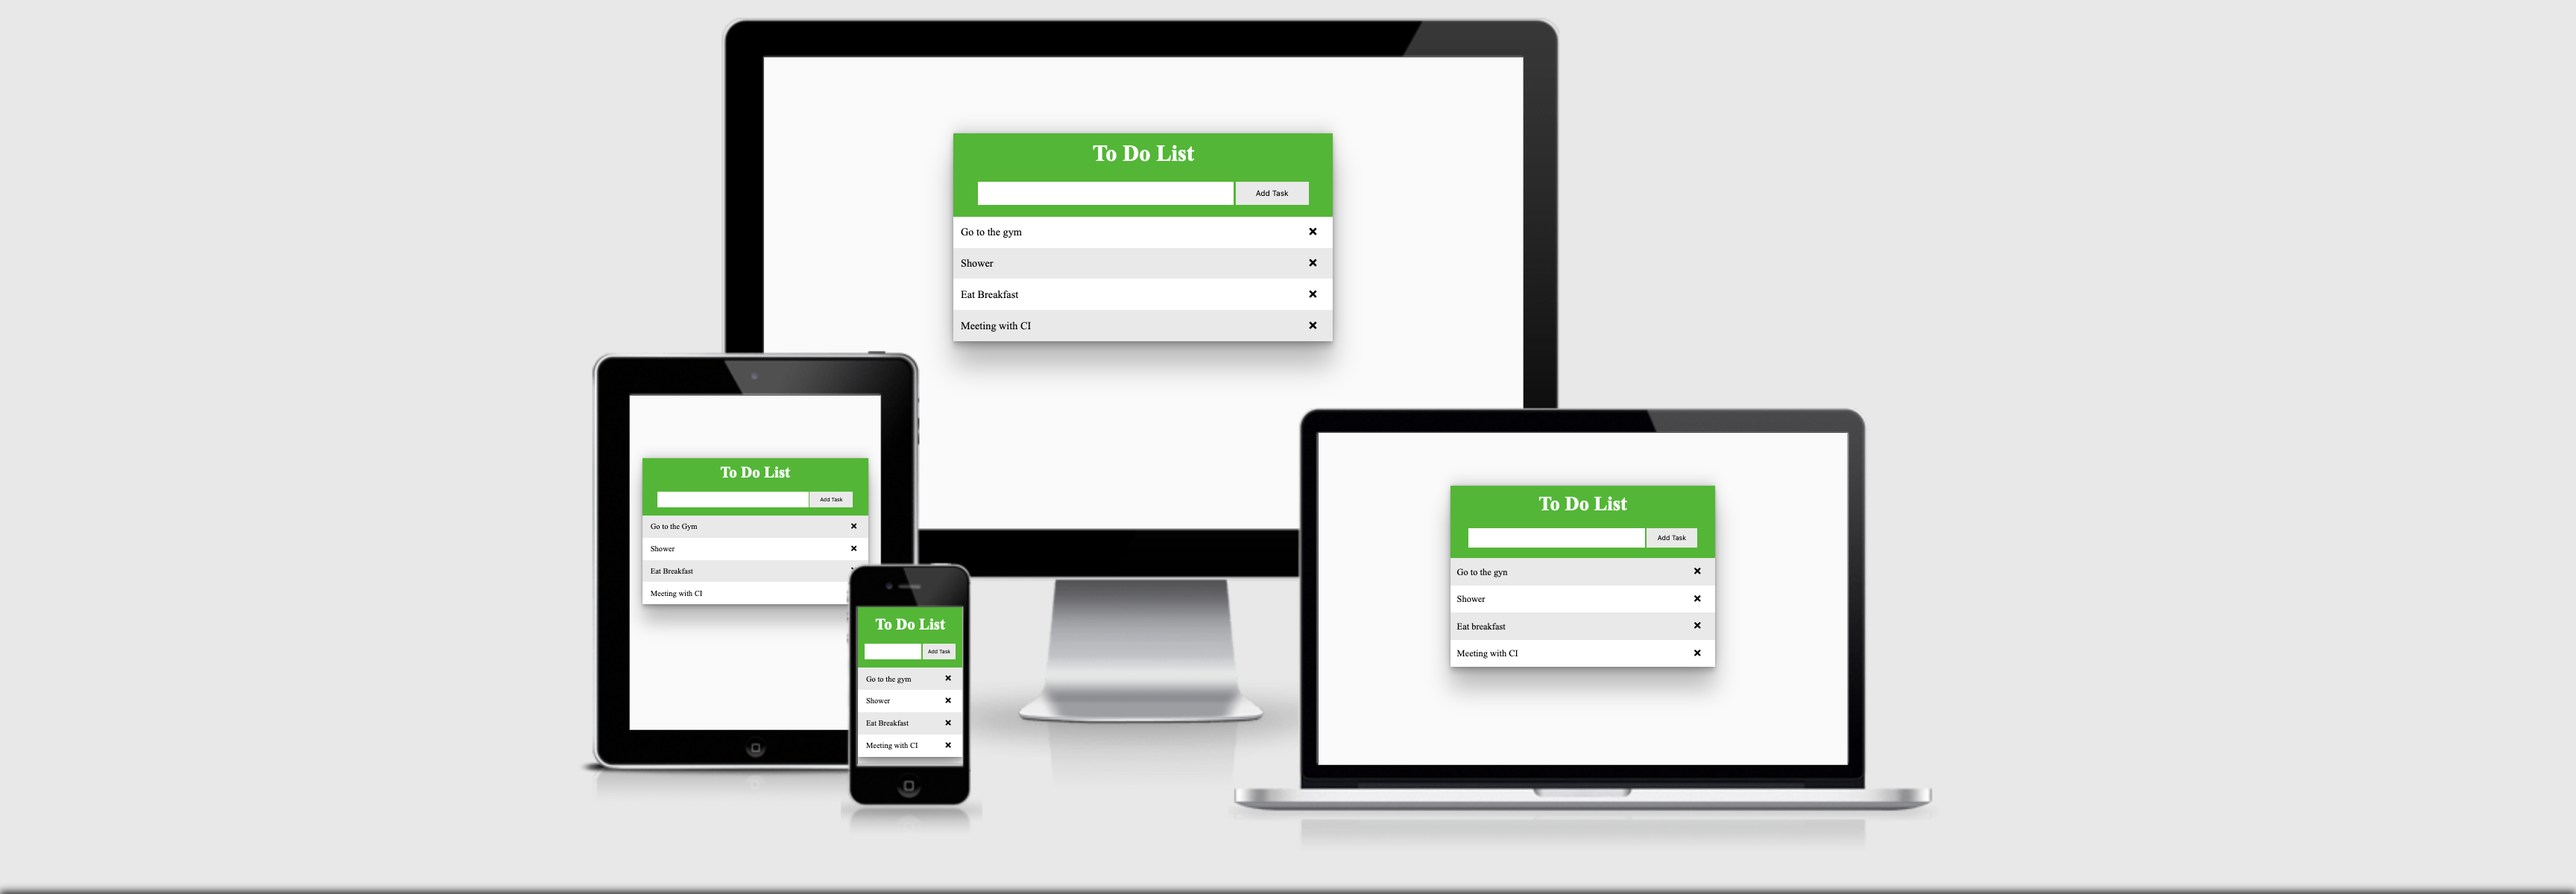
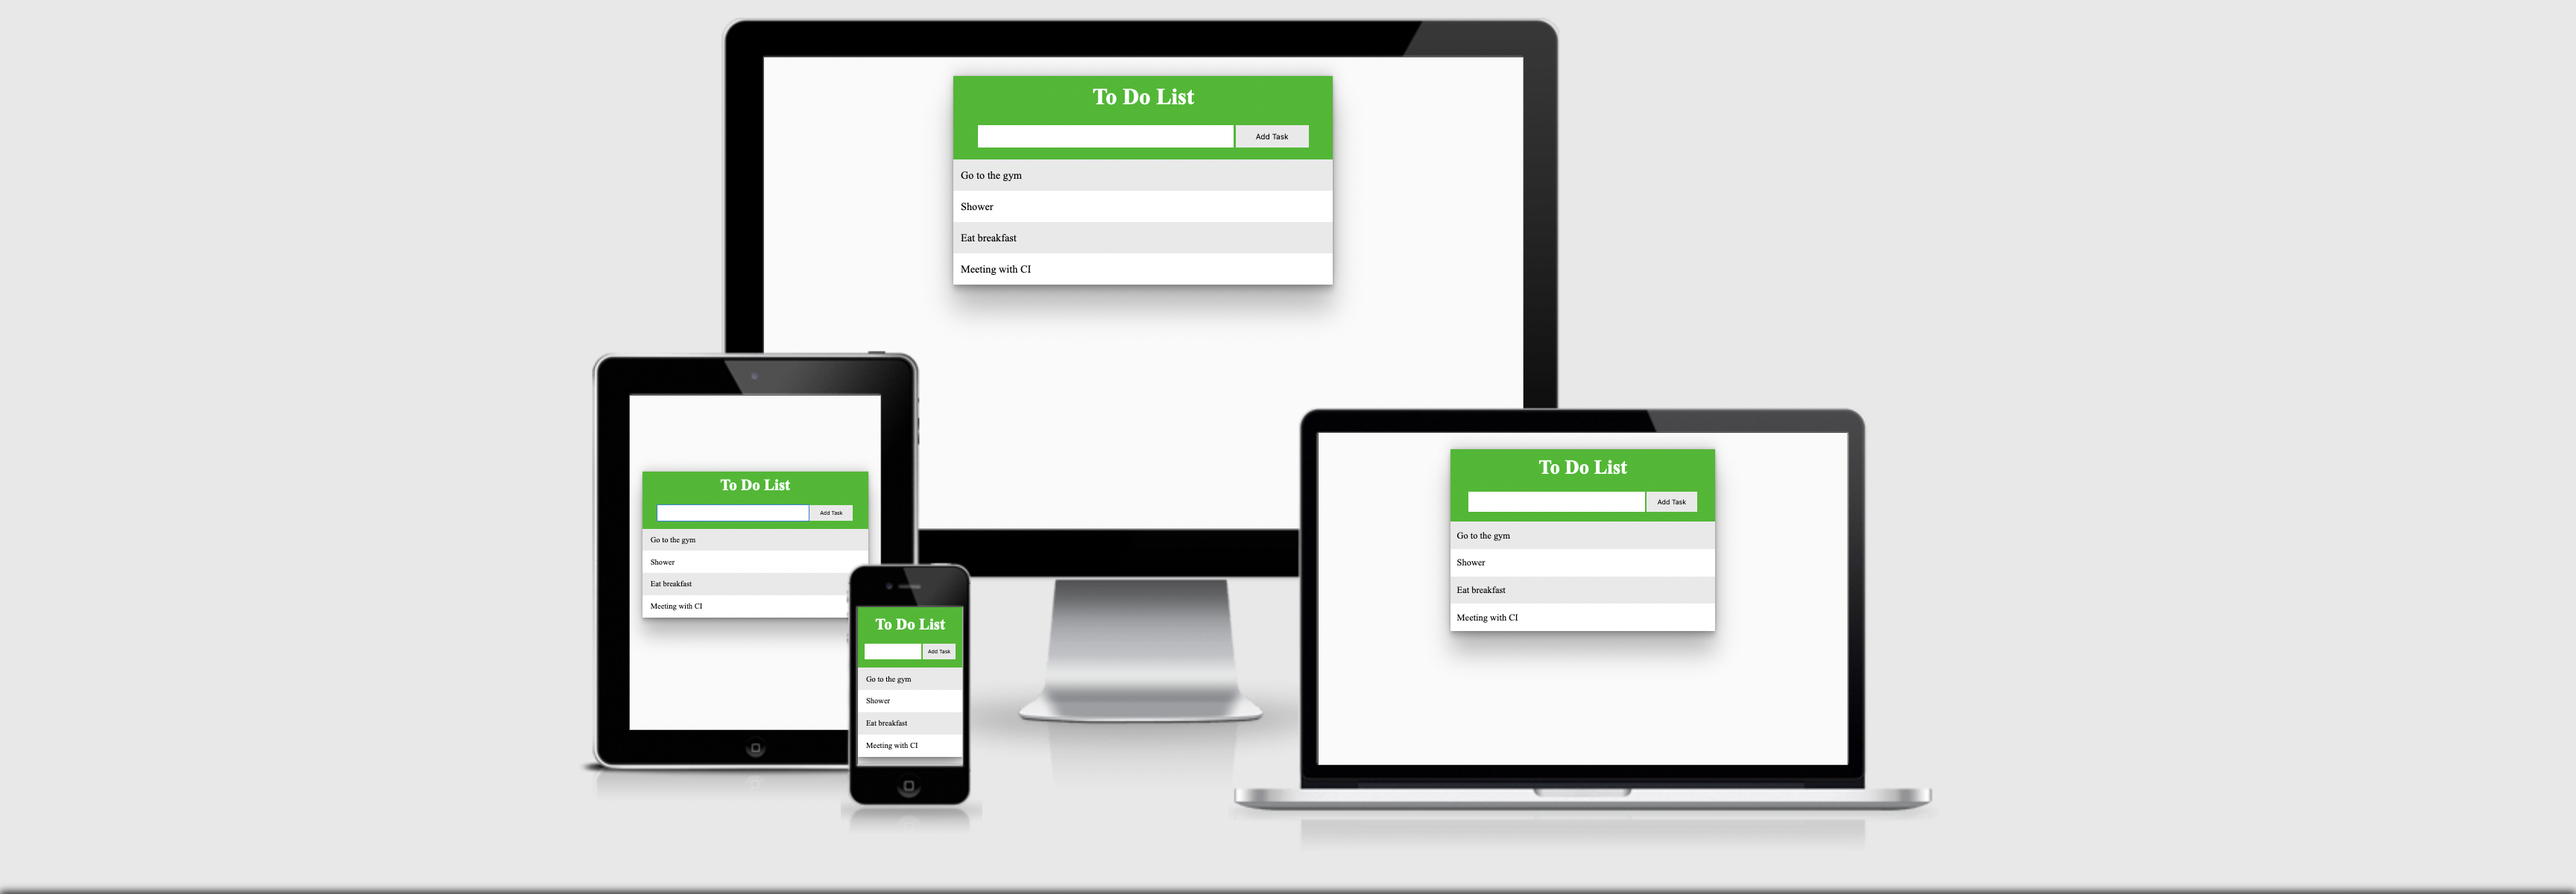
Update readme

diff --git a/README.md b/README.md
@@ -10,7 +10,7 @@ The site will help users to set up daily tasks/goals and keep track of whats bee
 
 -  __The Add Task Feature__
 
-    - Featured on the top of the page, this feature allows users to input their own tasks that need to get done and then add it to a list by pressing the "Add" button.
+    - Featured on the top of the page, this feature allows users to input their own tasks that need to get done and then add it to a list by either pressing the "Add" button or the enter key.
 
     ![Add Task](assets/images/addtask.png)
 
@@ -21,11 +21,16 @@ The site will help users to set up daily tasks/goals and keep track of whats bee
 
     ![Check Task](assets/images/checktask.png)
 
+- __Local Storage__
+
+    - This feature allows for users tasks to be saved when the browser is refreshed. When a users uses the check feature to tick of a task the task will be deleted from the local storage and not show up when refreshing the site. This feature really ties everything together and makes it easy to add, check and remove tasks.
+
 ## Feature I Would Like To Implement In The Future
 
 - __The Remove Task Feature__
     
-    - To the right of all tasks is a times symbol that allows users to click on it to remove the task incase they dont want to just check it of.
+    - This feature would allow users to click on a times symbol to the right of each task to remove it, incase they dont want to just check it of.
+    
 
     ![Remove Task](assets/images/removetask.png)
 
@@ -48,7 +53,38 @@ I've checked so the site works on diffrent browsers like Google Chrome, Firefox 
 - JavaScript
     - When passing the JavaScript code through the official site [Jshint validator](https://jshint.com/) i found one warning witch was the following : Functions declared within loops referencing an outer scoped variable may lead to confusing semantics. (closeTask, i). I fixed this by
       - The following metrics were returned: 
-      - There are 6 functions in this file.
+      - There are 7 functions in this file.
       - Function with the largest signature take 1 arguments, while the median is 0.
-      - Largest function has 9 statements in it, while the median is 3.5.
+      - Largest function has 12 statements in it, while the median is 4.
       - The most complex function has a cyclomatic complexity value of 4 while the median is 2.
+
+
+
+# Bugs
+
+### When working on this project i ran into a few bugs but nothing that was too hard to fix.
+
+- When creating the function to toggle the class “checked” for tasks that have been completed I couldn’t get it to work when using event.target.tagName(‘li’). After some research I found out that the older versions of HTML back when JavaScript was created used all caps for tag names. With this new information I could easily go back to my code and change the ‘li’ to ‘LI’ witch made it work.
+
+- When not typing anything in the input-field and trying to add the task anyways the array witch kept all user inputs still got updated with an empty string. I fixed this by moving the .push() method so it only ran if the input field wasn't empty.
+
+
+# Deployment 
+
+This site was deployed to GitHub pages. To deploy the page I followed the steps bellow:
+
+1. Visit your repositories page on Github and select the one you want to deploy
+2. Navigate to the “settings” menu and click on “Pages”
+3.  Under the “source” menu you can click on the dropdown menu that has the text “None” in it. 
+4. Select the main branch and click “Save”
+5. Once the branch has been selected, the page will be automatically refreshed with a ribbon to display if it was a successful deployment.
+
+The live link can be found here - https://filipwirsen.github.io/To-Do-List/
+
+
+# Credits
+
+- For the color scheme i took alot of help from this article that helped me learn about what diffrent colors stand for in webdesign [Article](https://99designs.com/blog/creative-inspiration/psychology-color-web-design/)
+
+- As always [Stack Overflow](https://stackoverflow.com/) helped me to understand diffrent concepts like localStorage for example
+- My mentor Akshat also helped me with understanding how to use and implement diffrent concepts.
